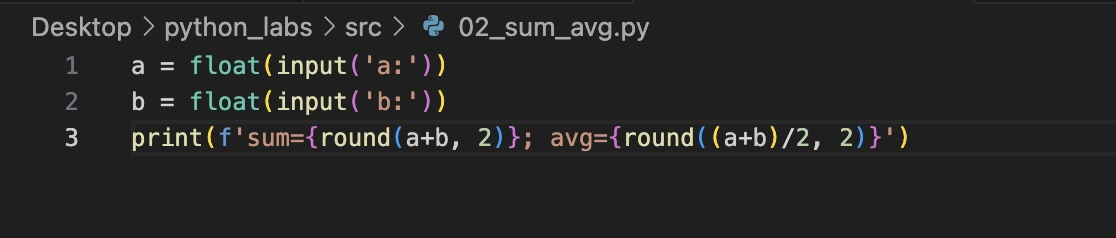
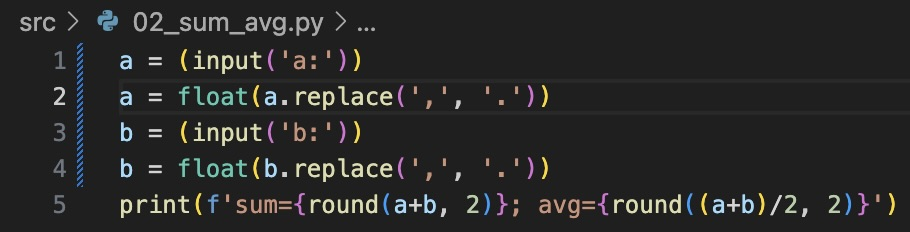
Дополн изображения

diff --git a/src/07_labr.py b/src/07_labr.py
@@ -13,8 +13,6 @@ for i in range(len(a)):
 for i in range(len(a)):
     if shag[-1]-shag[-2] == i-shag[-1]:
         sl+=a[i]
-        print(shag[-1], shag[-2], shag[-1]-shag[-2])
-        print(i, shag[-1], i-shag[-1])
         shag.append(i)
 if sl[-1] == '.': print(sl)
 else: print(sl)

diff --git a/src/02_sum_avg.py b/src/02_sum_avg.py
@@ -1,3 +1,5 @@
-a = float(input('a:'))
-b = float(input('b:'))
+a = (input('a:'))
+a = float(a.replace(',', '.'))
+b = (input('b:'))
+b = float(b.replace(',', '.'))
 print(f'sum={round(a+b, 2)}; avg={round((a+b)/2, 2)}')

diff --git a/README.md b/README.md
@@ -1,23 +1,30 @@
 # python_labs
 # Лабораторная работа 1
 ## Задание 1
-![Подписать что-то](./images/lab01/01.png)
+![Код:](./images/lab01/01.png)
+![Вывод:](./images/lab01/01r.png)
 
 ## Задание 2
-![Подписать что-то](./images/lab01/02.png)
+![Код:](./images/lab01/02.png)
+![Вывод:](./images/lab01/02r.png)
 
 ## Задание 3
-![Подписать что-то](./images/lab01/03.png)
+![Код:](./images/lab01/03.png)
+![Вывод:](./images/lab01/03r.png)
 
 ## Задание 4
-![Подписать что-то](./images/lab01/04.png)
+![Код:](./images/lab01/04.png)
+![Вывод:](./images/lab01/04r.png)
 
 ## Задание 5
-![Подписать что-то](./images/lab01/05.png)
+![Код:](./images/lab01/05.png)
+![Вывод:](./images/lab01/05r.png)
 
 ## Задание 6
-![Подписать что-то](./images/lab01/06.png)
+![Код:](./images/lab01/06.png)
+![Вывод:](./images/lab01/06r.png)
 
 ## Задание 7
-![Подписать что-то](images/lab01/07.png)
+![Код:](images/lab01/07.png)
+![Вывод:](./images/lab01/07r.png)
 
